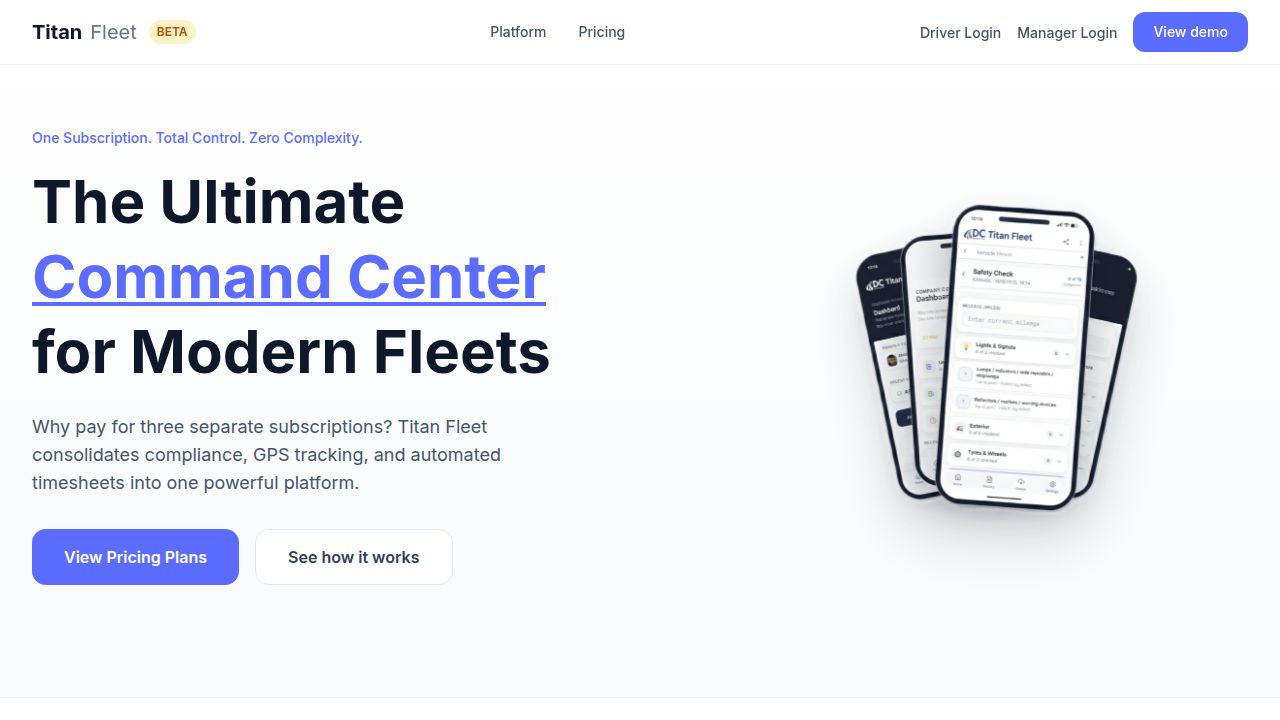
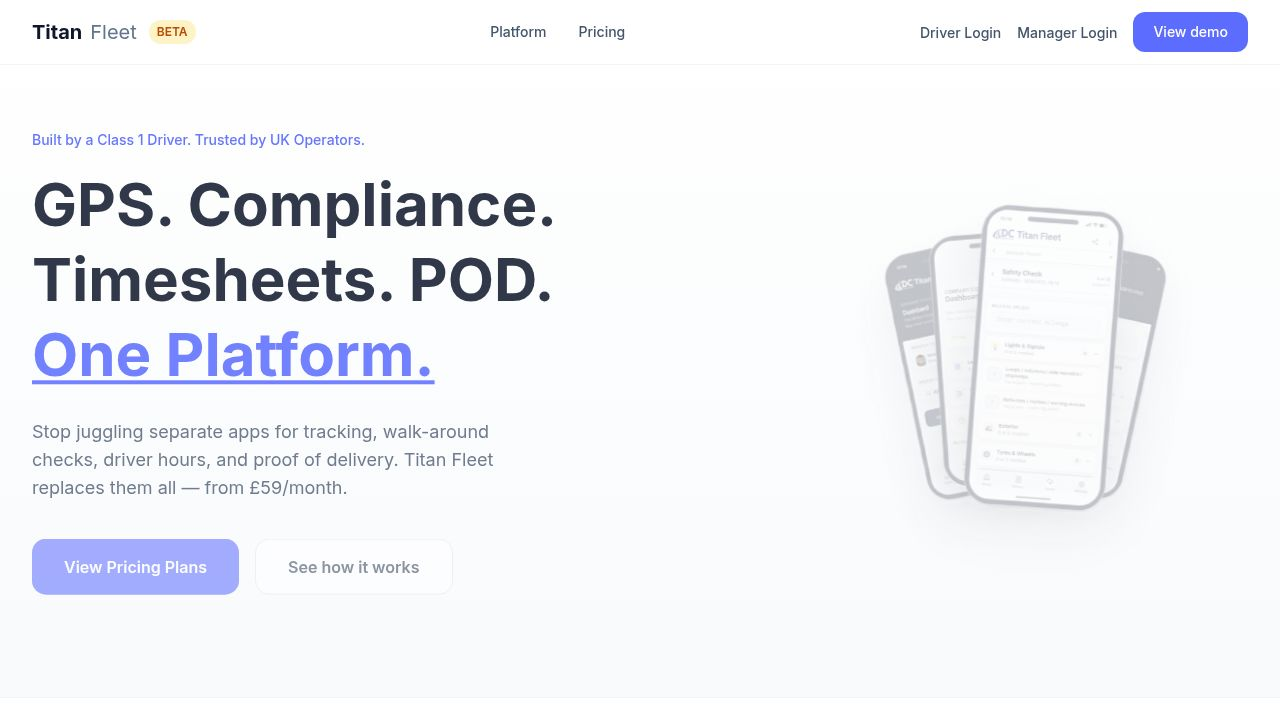
Update website copy to showcase new features and pricing
Refactors pricing tiers and landing page content in PricingSection.tsx and TitanFleetLandingPage.tsx to accurately reflect all implemented features and the new pricing structure.

Replit-Commit-Author: Agent
Replit-Commit-Session-Id: ee7a190d-00e0-4838-bcf8-69157a5bf69d
Replit-Commit-Checkpoint-Type: intermediate_checkpoint
Replit-Commit-Event-Id: 39586add-5053-495f-ade4-5fc0ac4fa10e
Replit-Commit-Screenshot-Url: https://storage.googleapis.com/screenshot-production-us-central1/4464319b-076b-4594-95c6-43a1ea95eff9/ee7a190d-00e0-4838-bcf8-69157a5bf69d/QtviItZ
Replit-Helium-Checkpoint-Created: true

diff --git a/client/src/pages/TitanFleetLanding.tsx b/client/src/pages/TitanFleetLanding.tsx
@@ -89,7 +89,7 @@ export default function TitanFleetLandingPage() {
                 transition={{ duration: 0.5 }}
                 className="text-sm font-medium text-[#5B6CFF] mb-4"
               >
-                One Subscription. Total Control. Zero Complexity.
+                Built by a Class 1 Driver. Trusted by UK Operators.
               </motion.p>
 
               <motion.h1
@@ -97,9 +97,8 @@ export default function TitanFleetLandingPage() {
                 transition={{ duration: 0.5, delay: 0.05 }}
                 className="text-4xl sm:text-5xl lg:text-6xl font-bold text-slate-900 leading-tight mb-6"
               >
-                The Ultimate{" "}
-                <span className="text-[#5B6CFF] underline decoration-[#5B6CFF] decoration-4 underline-offset-4">Command Center</span>
-                {" "}for Modern Fleets
+                GPS. Compliance. Timesheets. POD.{" "}
+                <span className="text-[#5B6CFF] underline decoration-[#5B6CFF] decoration-4 underline-offset-4">One Platform.</span>
               </motion.h1>
 
               <motion.p
@@ -107,7 +106,7 @@ export default function TitanFleetLandingPage() {
                 transition={{ duration: 0.5, delay: 0.1 }}
                 className="text-lg text-slate-600 mb-8 max-w-lg"
               >
-                Why pay for three separate subscriptions? Titan Fleet consolidates compliance, GPS tracking, and automated timesheets into one powerful platform.
+                Stop juggling separate apps for tracking, walk-around checks, driver hours, and proof of delivery. Titan Fleet replaces them all — from £59/month.
               </motion.p>
 
               <motion.div
@@ -169,11 +168,11 @@ export default function TitanFleetLandingPage() {
             </div>
             <div className="flex items-center gap-2 text-slate-700">
               <Check className="h-5 w-5 text-[#5B6CFF]" />
-              <span className="font-medium">SaaS-Free Compliance</span>
+              <span className="font-medium">From £59/month — No Setup Fee</span>
             </div>
           </motion.div>
           <p className="text-center text-sm text-slate-500 mt-4">
-            Used by UK operators before launch · Built with transport managers, not sales teams
+            Designed on the road, not in a boardroom. Every feature tested in real cabs.
           </p>
         </div>
       </section>
@@ -286,27 +285,27 @@ export default function TitanFleetLandingPage() {
           >
             {[
               {
-                title: "Intelligence Hub",
-                subtitle: "Live GPS & Risk Monitoring",
-                description: "Real-time coordinates, speed, and heading data with 5-minute telemetry updates. Our 30-minute stagnation alert flags stationary vehicles for driver safety checks.",
+                title: "Live GPS Tracking",
+                subtitle: "Real-Time Fleet Visibility",
+                description: "Track every vehicle in real-time with 5-minute telemetry updates. 30-minute stagnation alerts flag stationary vehicles automatically. Full route history and live map view.",
                 icon: "📡",
               },
               {
-                title: "Automated Payroll",
-                subtitle: "Depot Geofencing",
-                description: "High-precision geofencing at your sites for automatic clock-in/out. Generate payroll-ready CSV exports for instant invoicing and receipting.",
+                title: "Automated Timesheets",
+                subtitle: "Geofence Clock In/Out",
+                description: "Drivers clock in and out automatically when entering or leaving your depots. Generate payroll-ready CSV exports with hours, overtime, and mileage. No more paper timesheets.",
                 icon: "⏱",
               },
               {
-                title: "Titan Command",
-                subtitle: "Two-Way Dispatch",
-                description: "Push urgent traffic or site updates to the entire fleet simultaneously. Send 1-to-1 encrypted instructions with instant delivery confirmation.",
-                icon: "📲",
+                title: "Proof of Delivery",
+                subtitle: "Digital Signatures & Photos",
+                description: "Capture customer signatures, photos, and GPS coordinates at every drop. Generate professional POD PDFs instantly. Bulk status updates and full delivery audit trail.",
+                icon: "📦",
               },
               {
-                title: "Professional Compliance",
-                subtitle: "DVSA-Ready Framework",
-                description: "Digital walk-around checks, automated MOT/service alerts, and centralized management for vehicles, drivers, assets, and fuel cards.",
+                title: "DVSA-Ready Compliance",
+                subtitle: "Inspections, Defects & Automation",
+                description: "Digital walk-around checks with timed inspections, photo defect reporting, and auto-VOR. MOT, tax, and service alerts run automatically. Compliance scores grade your fleet A to F.",
                 icon: "✅",
               },
             ].map((feature, index) => (
@@ -343,6 +342,65 @@ export default function TitanFleetLandingPage() {
             <p className="text-lg text-slate-600 max-w-2xl mx-auto">
               When DVSA asks questions, your records already have answers.
             </p>
+          </motion.div>
+        </div>
+      </section>
+
+      {/* More Built-In Features */}
+      <section className="py-20 lg:py-28 bg-white">
+        <div className="max-w-7xl mx-auto px-4 sm:px-6 lg:px-8">
+          <motion.div
+            initial="hidden"
+            whileInView="visible"
+            viewport={{ once: true }}
+            variants={staggerContainer}
+            className="text-center mb-16"
+          >
+            <motion.h2
+              variants={fadeUp}
+              transition={{ duration: 0.5 }}
+              className="text-3xl sm:text-4xl font-bold text-slate-900 mb-4"
+            >
+              And That's Not All
+            </motion.h2>
+            <motion.p
+              variants={fadeUp}
+              transition={{ duration: 0.5, delay: 0.1 }}
+              className="text-lg text-slate-600 max-w-2xl mx-auto"
+            >
+              Every feature below is already live and working. No roadmap promises.
+            </motion.p>
+          </motion.div>
+
+          <motion.div
+            initial="hidden"
+            whileInView="visible"
+            viewport={{ once: true }}
+            variants={staggerContainer}
+            className="grid sm:grid-cols-2 lg:grid-cols-3 gap-6"
+          >
+            {[
+              { title: "Driver-to-Manager Messaging", desc: "Drivers send priority messages directly to transport managers. Unread badges and 30-second auto-polling." },
+              { title: "Auto-VOR on Failed Inspections", desc: "Vehicles are automatically flagged as off-road when an inspection fails. No manual intervention needed." },
+              { title: "Defect Escalation", desc: "Unresolved defects automatically escalate in severity every 24 hours until someone acts on them." },
+              { title: "Fuel Anomaly Detection", desc: "Unusual fuel entries are flagged automatically when they exceed 2.5x the vehicle's rolling average." },
+              { title: "Compliance Score", desc: "Real-time fleet health score graded A to F. Tracks inspections, defects, MOT status, and VOR ratio." },
+              { title: "MOT, Tax & Service Alerts", desc: "Automated daily checks flag upcoming expiries and send notifications to managers before deadlines hit." },
+              { title: "White-Label Branding", desc: "Your logo, your colours, your domain. Each company gets their own branded experience." },
+              { title: "Notification Bell & History", desc: "Real-time in-app notifications for both drivers and managers. Mark as read, filter by priority." },
+              { title: "PDF Reports & CSV Export", desc: "Generate inspection PDFs, delivery PODs, timesheet exports, and delivery CSV files on demand." },
+            ].map((item, index) => (
+              <motion.div
+                key={index}
+                variants={fadeUp}
+                transition={{ duration: 0.4, delay: index * 0.05 }}
+                className="bg-slate-50 rounded-xl p-6 border border-slate-100"
+                data-testid={`extra-feature-${index}`}
+              >
+                <h3 className="font-bold text-slate-900 mb-2">{item.title}</h3>
+                <p className="text-sm text-slate-600">{item.desc}</p>
+              </motion.div>
+            ))}
           </motion.div>
         </div>
       </section>

diff --git a/client/src/components/PricingSection.tsx b/client/src/components/PricingSection.tsx
@@ -31,9 +31,13 @@ const pricingTiers: PricingTier[] = [
     maxVehicles: 10,
     features: [
       "Up to 10 vehicles",
-      "Basic inspections",
-      "Defect tracking",
+      "DVSA-compliant daily checks",
+      "Photo defect reporting",
+      "Defect tracking & management",
+      "Fuel & AdBlue logging",
+      "Driver PIN authentication",
       "Unlimited drivers",
+      "Email notifications",
       "Email support",
     ],
   },
@@ -44,10 +48,16 @@ const pricingTiers: PricingTier[] = [
     popular: true,
     features: [
       "Up to 25 vehicles",
-      "GPS tracking",
-      "Timesheets",
+      "Everything in Starter, plus:",
+      "Live GPS tracking",
+      "Driver clock in/out & timesheets",
+      "Geofence-based auto clock",
+      "Proof of Delivery (POD) with signatures",
+      "In-app driver-to-manager messaging",
+      "Compliance score dashboard",
+      "Auto-VOR on failed inspections",
+      "Fleet analytics & reports",
       "Priority support",
-      "Fleet analytics",
     ],
   },
   {
@@ -56,9 +66,15 @@ const pricingTiers: PricingTier[] = [
     maxVehicles: 50,
     features: [
       "Up to 50 vehicles",
-      "Advanced analytics",
+      "Everything in Growth, plus:",
+      "Automated defect escalation",
+      "Fuel anomaly detection",
+      "MOT/Tax/Service auto-alerts",
+      "Bulk delivery status updates",
+      "CSV & PDF export",
+      "Advanced compliance automation",
+      "Multi-depot support",
       "API access",
-      "Multi-depot",
       "Custom reports",
     ],
   },
@@ -68,10 +84,14 @@ const pricingTiers: PricingTier[] = [
     maxVehicles: 100,
     features: [
       "Up to 100 vehicles",
-      "Dedicated support",
-      "Custom integrations",
-      "White-label",
-      "SLA guarantee",
+      "Everything in Pro, plus:",
+      "Full white-label branding",
+      "Google Drive auto-upload",
+      "Role-based access control",
+      "Super Admin panel",
+      "Notification preference controls",
+      "Audit log & history",
+      "Dedicated phone support",
     ],
   },
 ];
@@ -351,20 +371,36 @@ export default function PricingSection() {
                 </thead>
                 <tbody>
                   {[
-                    { feature: "DVSA-ready checks", all: true },
+                    { feature: "DVSA-compliant daily checks", all: true },
                     { feature: "Photo defect reporting", all: true },
-                    { feature: "Branded driver app", all: true },
+                    { feature: "Defect tracking & management", all: true },
+                    { feature: "Fuel & AdBlue logging", all: true },
+                    { feature: "Driver PIN authentication", all: true },
                     { feature: "Unlimited drivers", all: true },
+                    { feature: "Email notifications", all: true },
+                    { feature: "Branded driver app", all: true },
                     { feature: "Vehicle limit", values: ["10", "25", "50", "100"] },
-                    { feature: "GPS tracking", starter: false, growth: true, pro: true, scale: true },
-                    { feature: "Timesheets", starter: false, growth: true, pro: true, scale: true },
-                    { feature: "Priority support", starter: false, growth: true, pro: true, scale: true },
-                    { feature: "Advanced analytics", starter: false, growth: false, pro: true, scale: true },
+                    { feature: "Live GPS tracking", starter: false, growth: true, pro: true, scale: true },
+                    { feature: "Driver timesheets & clock in/out", starter: false, growth: true, pro: true, scale: true },
+                    { feature: "Geofence auto clock", starter: false, growth: true, pro: true, scale: true },
+                    { feature: "Proof of Delivery (POD)", starter: false, growth: true, pro: true, scale: true },
+                    { feature: "Digital signatures & photos", starter: false, growth: true, pro: true, scale: true },
+                    { feature: "Driver-to-manager messaging", starter: false, growth: true, pro: true, scale: true },
+                    { feature: "Compliance score dashboard", starter: false, growth: true, pro: true, scale: true },
+                    { feature: "Auto-VOR on failed inspections", starter: false, growth: true, pro: true, scale: true },
+                    { feature: "Fleet analytics", starter: false, growth: true, pro: true, scale: true },
+                    { feature: "Automated defect escalation", starter: false, growth: false, pro: true, scale: true },
+                    { feature: "Fuel anomaly detection", starter: false, growth: false, pro: true, scale: true },
+                    { feature: "MOT/Tax/Service auto-alerts", starter: false, growth: false, pro: true, scale: true },
+                    { feature: "CSV & PDF export", starter: false, growth: false, pro: true, scale: true },
                     { feature: "API access", starter: false, growth: false, pro: true, scale: true },
                     { feature: "Multi-depot", starter: false, growth: false, pro: true, scale: true },
-                    { feature: "Dedicated support", starter: false, growth: false, pro: false, scale: true },
-                    { feature: "Custom integrations", starter: false, growth: false, pro: false, scale: true },
-                    { feature: "White-label", starter: false, growth: false, pro: false, scale: true },
+                    { feature: "White-label branding", starter: false, growth: false, pro: false, scale: true },
+                    { feature: "Google Drive auto-upload", starter: false, growth: false, pro: false, scale: true },
+                    { feature: "Role-based access control", starter: false, growth: false, pro: false, scale: true },
+                    { feature: "Super Admin panel", starter: false, growth: false, pro: false, scale: true },
+                    { feature: "Audit log & history", starter: false, growth: false, pro: false, scale: true },
+                    { feature: "Notification preference controls", starter: false, growth: false, pro: false, scale: true },
                   ].map((row, i) => (
                     <tr key={i} className="border-b border-slate-700/50">
                       <td className="py-4 px-6 text-sm text-slate-300">{row.feature}</td>
